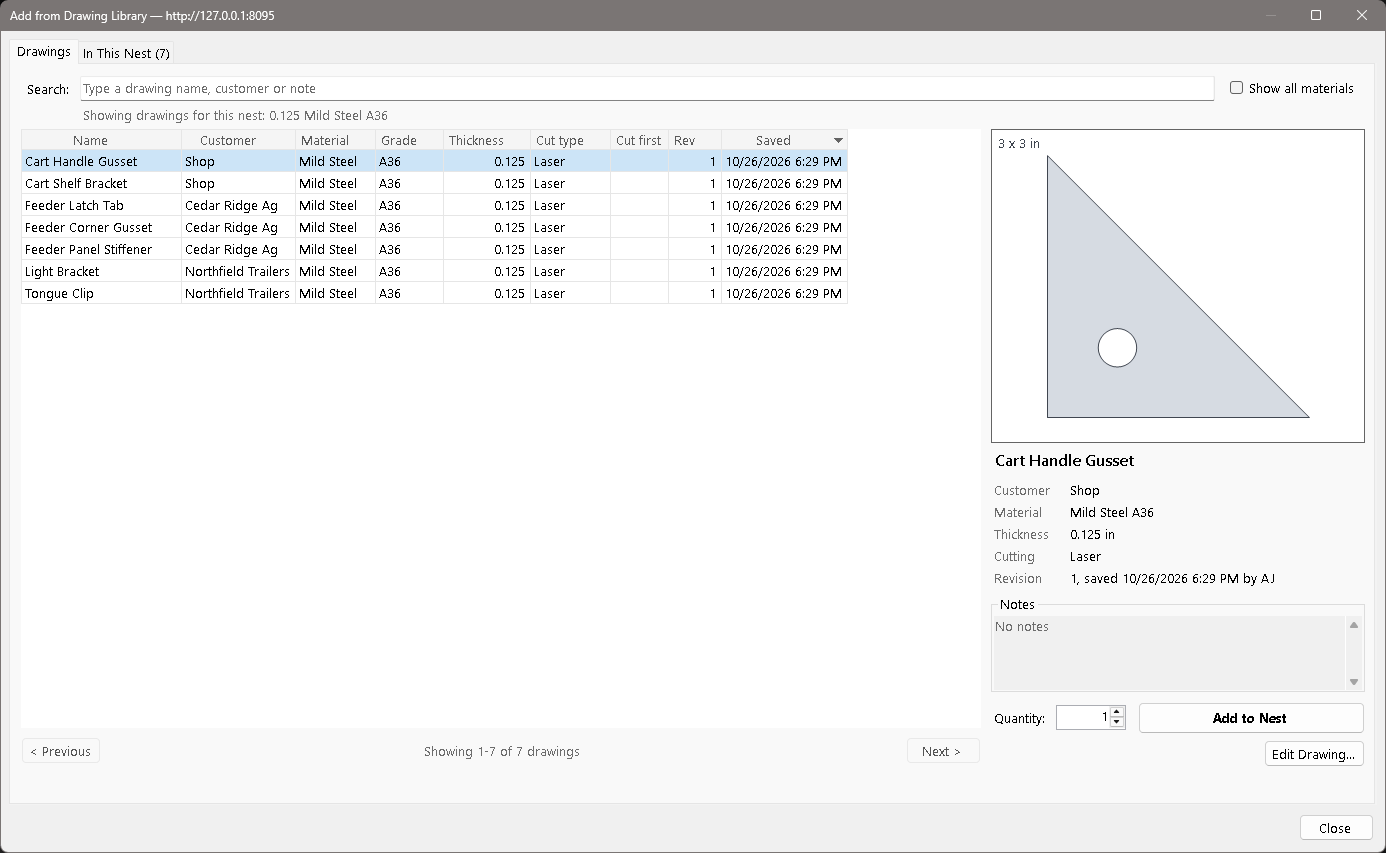
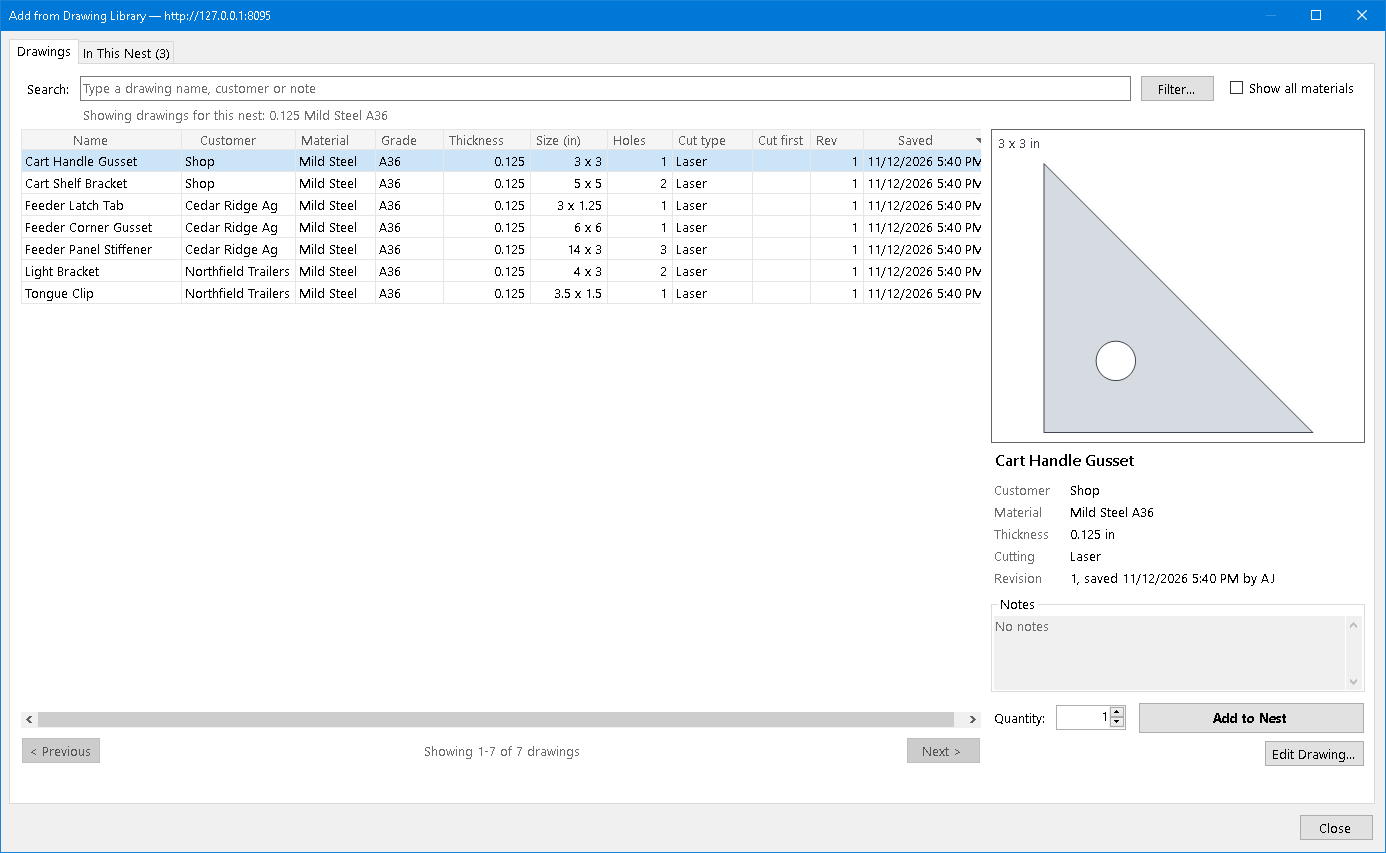
Document the drawing library's Filter dialog and size columns
OpenNest's library browser can now filter by customer, thickness, size,
holes and saved date, and lists each drawing's measured size and hole
count. Shop users need to know how to fill the dialog (gauges, fractions,
blank means no limit) and why a new drawing can be missing from a size or
hole filter until the server has measured it, so the Drawing Library page
gets a Filter section with a worked example and a library-filter topic ID.

The library and Add from Drawing Library pictures are recaptured on the
throwaway seed server with the server worker measuring the seed parts, so
they show the Filter button and the Size and Holes columns; the Filter
dialog and a filtered list are new captures.

diff --git a/docs/drawing-library.md b/docs/drawing-library.md
@@ -15,9 +15,11 @@ main window.
 
 ![Drawing Library window with a part selected](images/drawing-library.png)
 
-1. **Search.** Type part of a drawing's name, customer or notes.
+1. **Search.** Type part of a drawing's name, customer or notes. **Filter...** beside
+   it narrows the list by size, holes, thickness and more ([below](#filter)).
 2. **Drawing list.** Every active drawing with its customer, material, grade,
-   thickness and cut type. **Previous** and **Next** page through a large library.
+   thickness, cut type, **Size (in)** and **Holes**. Click a column header to sort by
+   it. **Previous** and **Next** page through a large library.
 3. **Preview and details.** The selected drawing, its details, the last revision
    (when, and who saved it) and its notes.
 4. **Add to Release.** Adds the selected drawing to the release panel on the right, at
@@ -28,6 +30,60 @@ main window.
 
 The window also has the **Sets** and **Releases** tabs, covered on their own pages.
 
+**Size (in)** is the drawing's longer side by its shorter side, for example `3.5 x 2`,
+and **Holes** counts the closed cutouts inside its outline. The nest server measures
+every library drawing in the background, so a newly saved drawing shows them within
+about a minute. Until then both are blank; a **?** means the drawing could not be
+measured.
+
+## Filter the library {#filter}
+
+To find parts by size, holes or thickness instead of by name, click **Filter...**
+beside the search box. It works the same in **File > Drawing Library...** and in
+**Nest > Add from Drawing Library...**.
+
+![Filter Drawing Library dialog](images/library-filter.png)
+
+1. **Customer.** One customer, matched exactly. The list offers the customers on the
+   page you were looking at.
+2. **Thickness (in).** Type inches, a fraction such as `3/16` or a gauge such as
+   `16 ga`. **Include drawings saved without a thickness** (on to start with) keeps
+   drawings that suit any thickness, like a test square.
+3. **Longer side** and **Shorter side (in).** Inches or fractions such as `3-1/2`.
+4. **Holes.** Whole numbers.
+5. **Saved.** Tick a date to use it. This is when the drawing was saved to the
+   library; drawings brought over from PEP all carry the date they were imported, and
+   their PEP dates are in their notes.
+6. **Clear** empties every box. **OK** applies the filter; **Cancel** keeps the one
+   you had.
+
+Leave a box blank for no limit. Every limit includes its value, so Holes from `2`
+means 2 or more. If a box doesn't read, or a range runs high to low, the dialog stays
+open and says why in red.
+
+Size and hole limits leave out drawings the server hasn't measured yet.
+
+While a filter is on, the button reads **Filter (on)...** and the gray line under the
+search box ends with what it holds, for example
+*Filter: Thickness 0.0598-0.1875 in (or none); Length up to 4 in; Holes 2+.* The
+filter works together with the search box and, when adding to a nest, with the nest's
+material.
+
+### Example: small parts with two or more holes
+
+To find parts no bigger than 4 in square, 16 ga to 3/16 thick, with at least 2 holes:
+
+1. Click **Filter...**.
+2. **Thickness:** `16 ga` to `3/16`.
+3. **Longer side:** leave the first box blank and type `4` in the second. The shorter
+   side can't be longer, so it needs no limit.
+4. **Holes:** `2` in the first box, the second blank.
+5. Click **OK**.
+
+![Drawing Library filtered to small parts with two or more holes](images/library-filtered.png)
+
+To go back to the whole library, open **Filter (on)...**, click **Clear**, then **OK**.
+
 ## Add library drawings to a nest {#add-to-nest}
 
 With a nest open, choose **Nest > Add from Drawing Library...**, or click the
@@ -36,8 +92,10 @@ With a nest open, choose **Nest > Add from Drawing Library...**, or click the
 ![Add from Drawing Library dialog, Drawings tab](images/add-from-library.png)
 
 1. **Search.** The list starts with drawings of the nest's material, grade and
-   thickness. Tick **Show all materials** to see the rest.
-2. **Drawing list.** Click a drawing to select it.
+   thickness. Tick **Show all materials** to see the rest. **Filter...** narrows it
+   further ([Filter the library](#filter)).
+2. **Drawing list.** Click a drawing to select it. **Size (in)** and **Holes** show
+   each drawing's measured size and hole count.
 3. **Preview and details** of the selected drawing.
 4. Enter a **Quantity** and click **Add to Nest** (or double-click the drawing).
 5. **In This Nest** lists what the nest already holds.
